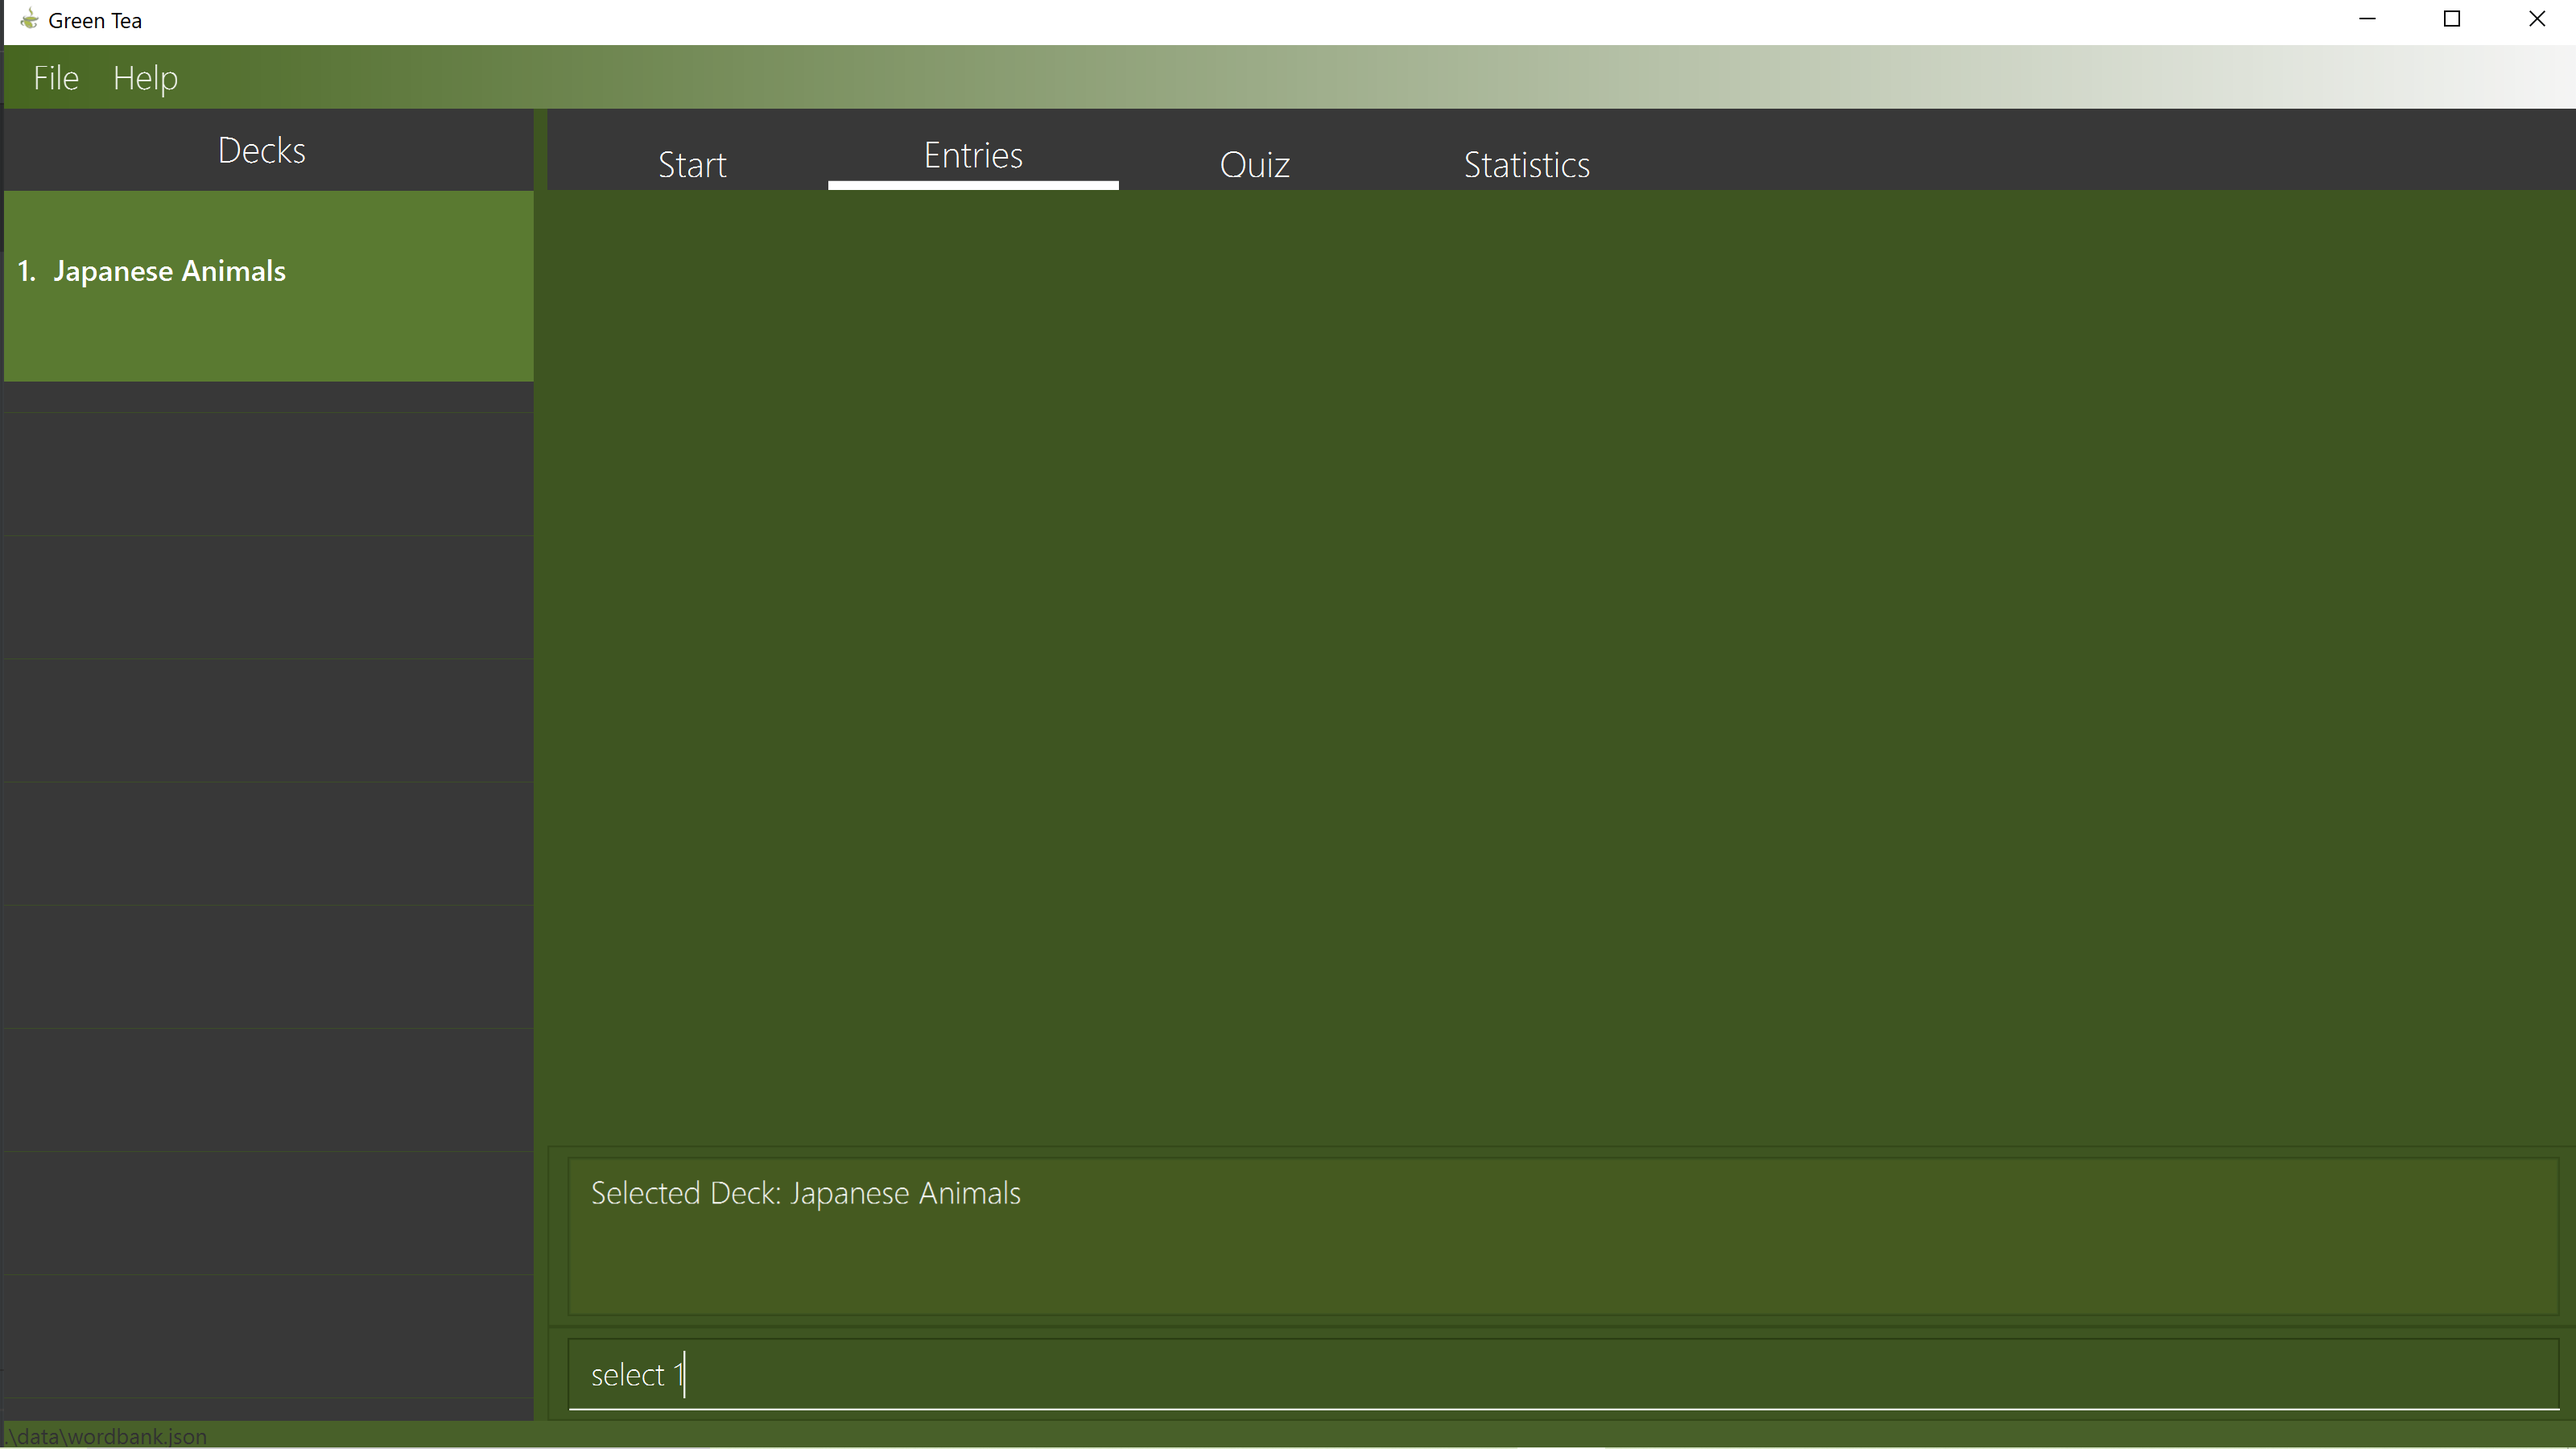
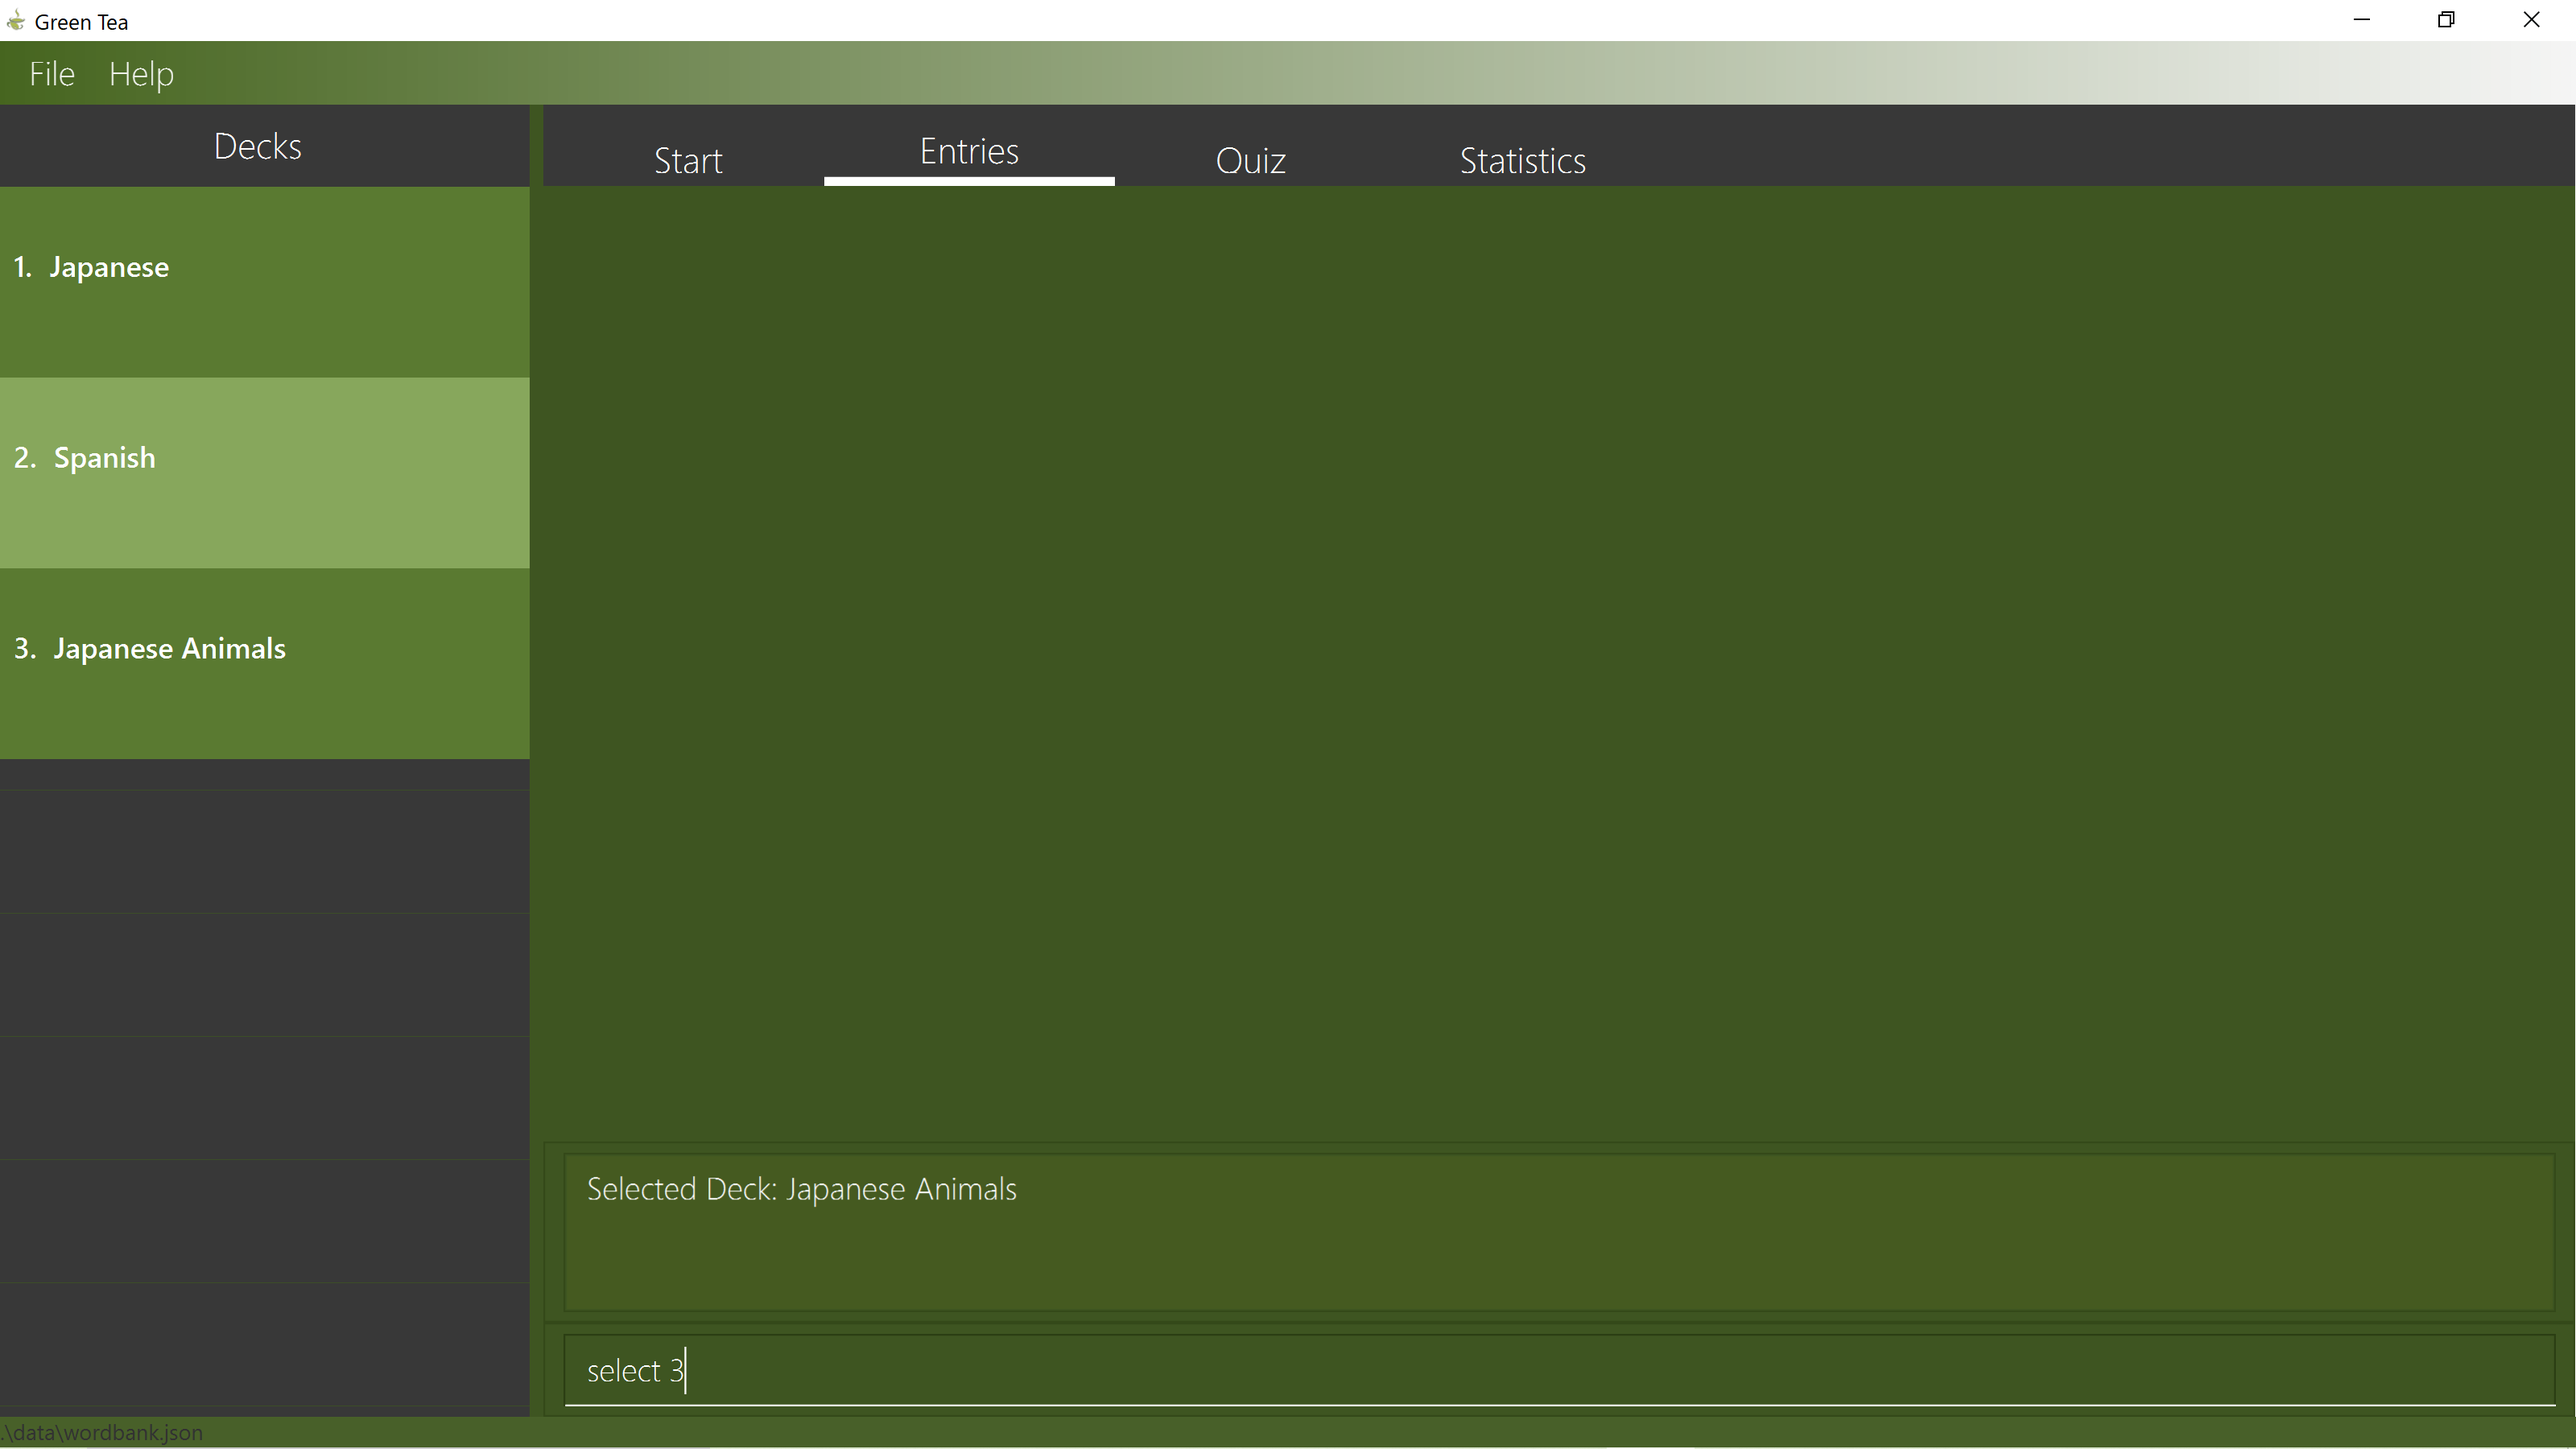
Update diagrams for ug

diff --git a/docs/UserGuide.md b/docs/UserGuide.md
@@ -79,12 +79,13 @@ To start using GreenTea:
 2. Download GreenTea.jar from the latest release
 3. Once downloaded, copy the jar file to your folder of choice (we recommend on your desktop!)
 4. Double-Click the file to start the application. The GUI should appear in a few seconds and it should look like Figure 2.
+There should be two sample decks for you to begin with, Japanese and Spanish.
 
 ![GreenTea](images/user-guide/1EmptyGUI.png)
 Figure 2. GreenTea's GUI
 
 
-Before we get started with the program, let us first understand the GUI of GreenTea. We shall use an annotated version of Figure 2 to explain it.
+Before we get started with the program, let us first understand the GUI of GreenTea. We shall use an annotated version of the GUI to explain it.
 ![GreenTea](images/user-guide/3EmptyGUIWithAnnotation.png)
 Figure 3. Annotated GUI
 
@@ -117,15 +118,15 @@ There are four main components to the GUI. The deck list, the tab panels, the re
     doing this for the rest of the document as well!
 
     The previous command that you entered created a new Deck in GreenTea called `Japanese Animals`.
-    Notice that the Deck List has been updated to include a new Deck called `Japanese Animals` with an index `1`.
+    Notice that the Deck List has been updated to include a new Deck called `Japanese Animals` with an index `3`.
 
-    - `select 1`
+    - `select 3`
 
     ![GreenTea](images/user-guide/5SelectDeckExample.png)
-    Figure 5. Selecting the first deck in the list
+    Figure 5. Selecting the third deck in the list
 
     Your screen should now look like Figure 5.
-    The previous command that you entered made GreenTea `select` the deck with index `1` which happens to be the Deck
+    The previous command that you entered made GreenTea `select` the deck with index `3` which happens to be the Deck
     `Japanese Animals` that you have created previously. Notice that the current tab has automatically changed to the
     Entries Tab. The Entries Tab is empty because there are currently no entries in `Japanese Animals`. Let's fix that
     shall we?
@@ -284,7 +285,7 @@ Removes a deck with the given index.
 Format: `remove <INDEX OF DECK>`
 
 :information_source: **Note:**
-To get the index of a deck, you may view it on the GUI. It would be the number displayed beside a particular deck.
+To get the index of a deck, you may view it on the GUI. It is the number displayed beside a particular deck.
 
 Example:
 
@@ -309,7 +310,7 @@ Selects a deck with the given index and lists all of its entries.
 Format: `select <INDEX OF DECK>`
 
 :information_source: **Note:**
-The index of the deck is the number displayed it on the user interface.
+To get the index of a deck, you may view it on the GUI. It is the number displayed beside a particular deck.
 
 Example:
 
